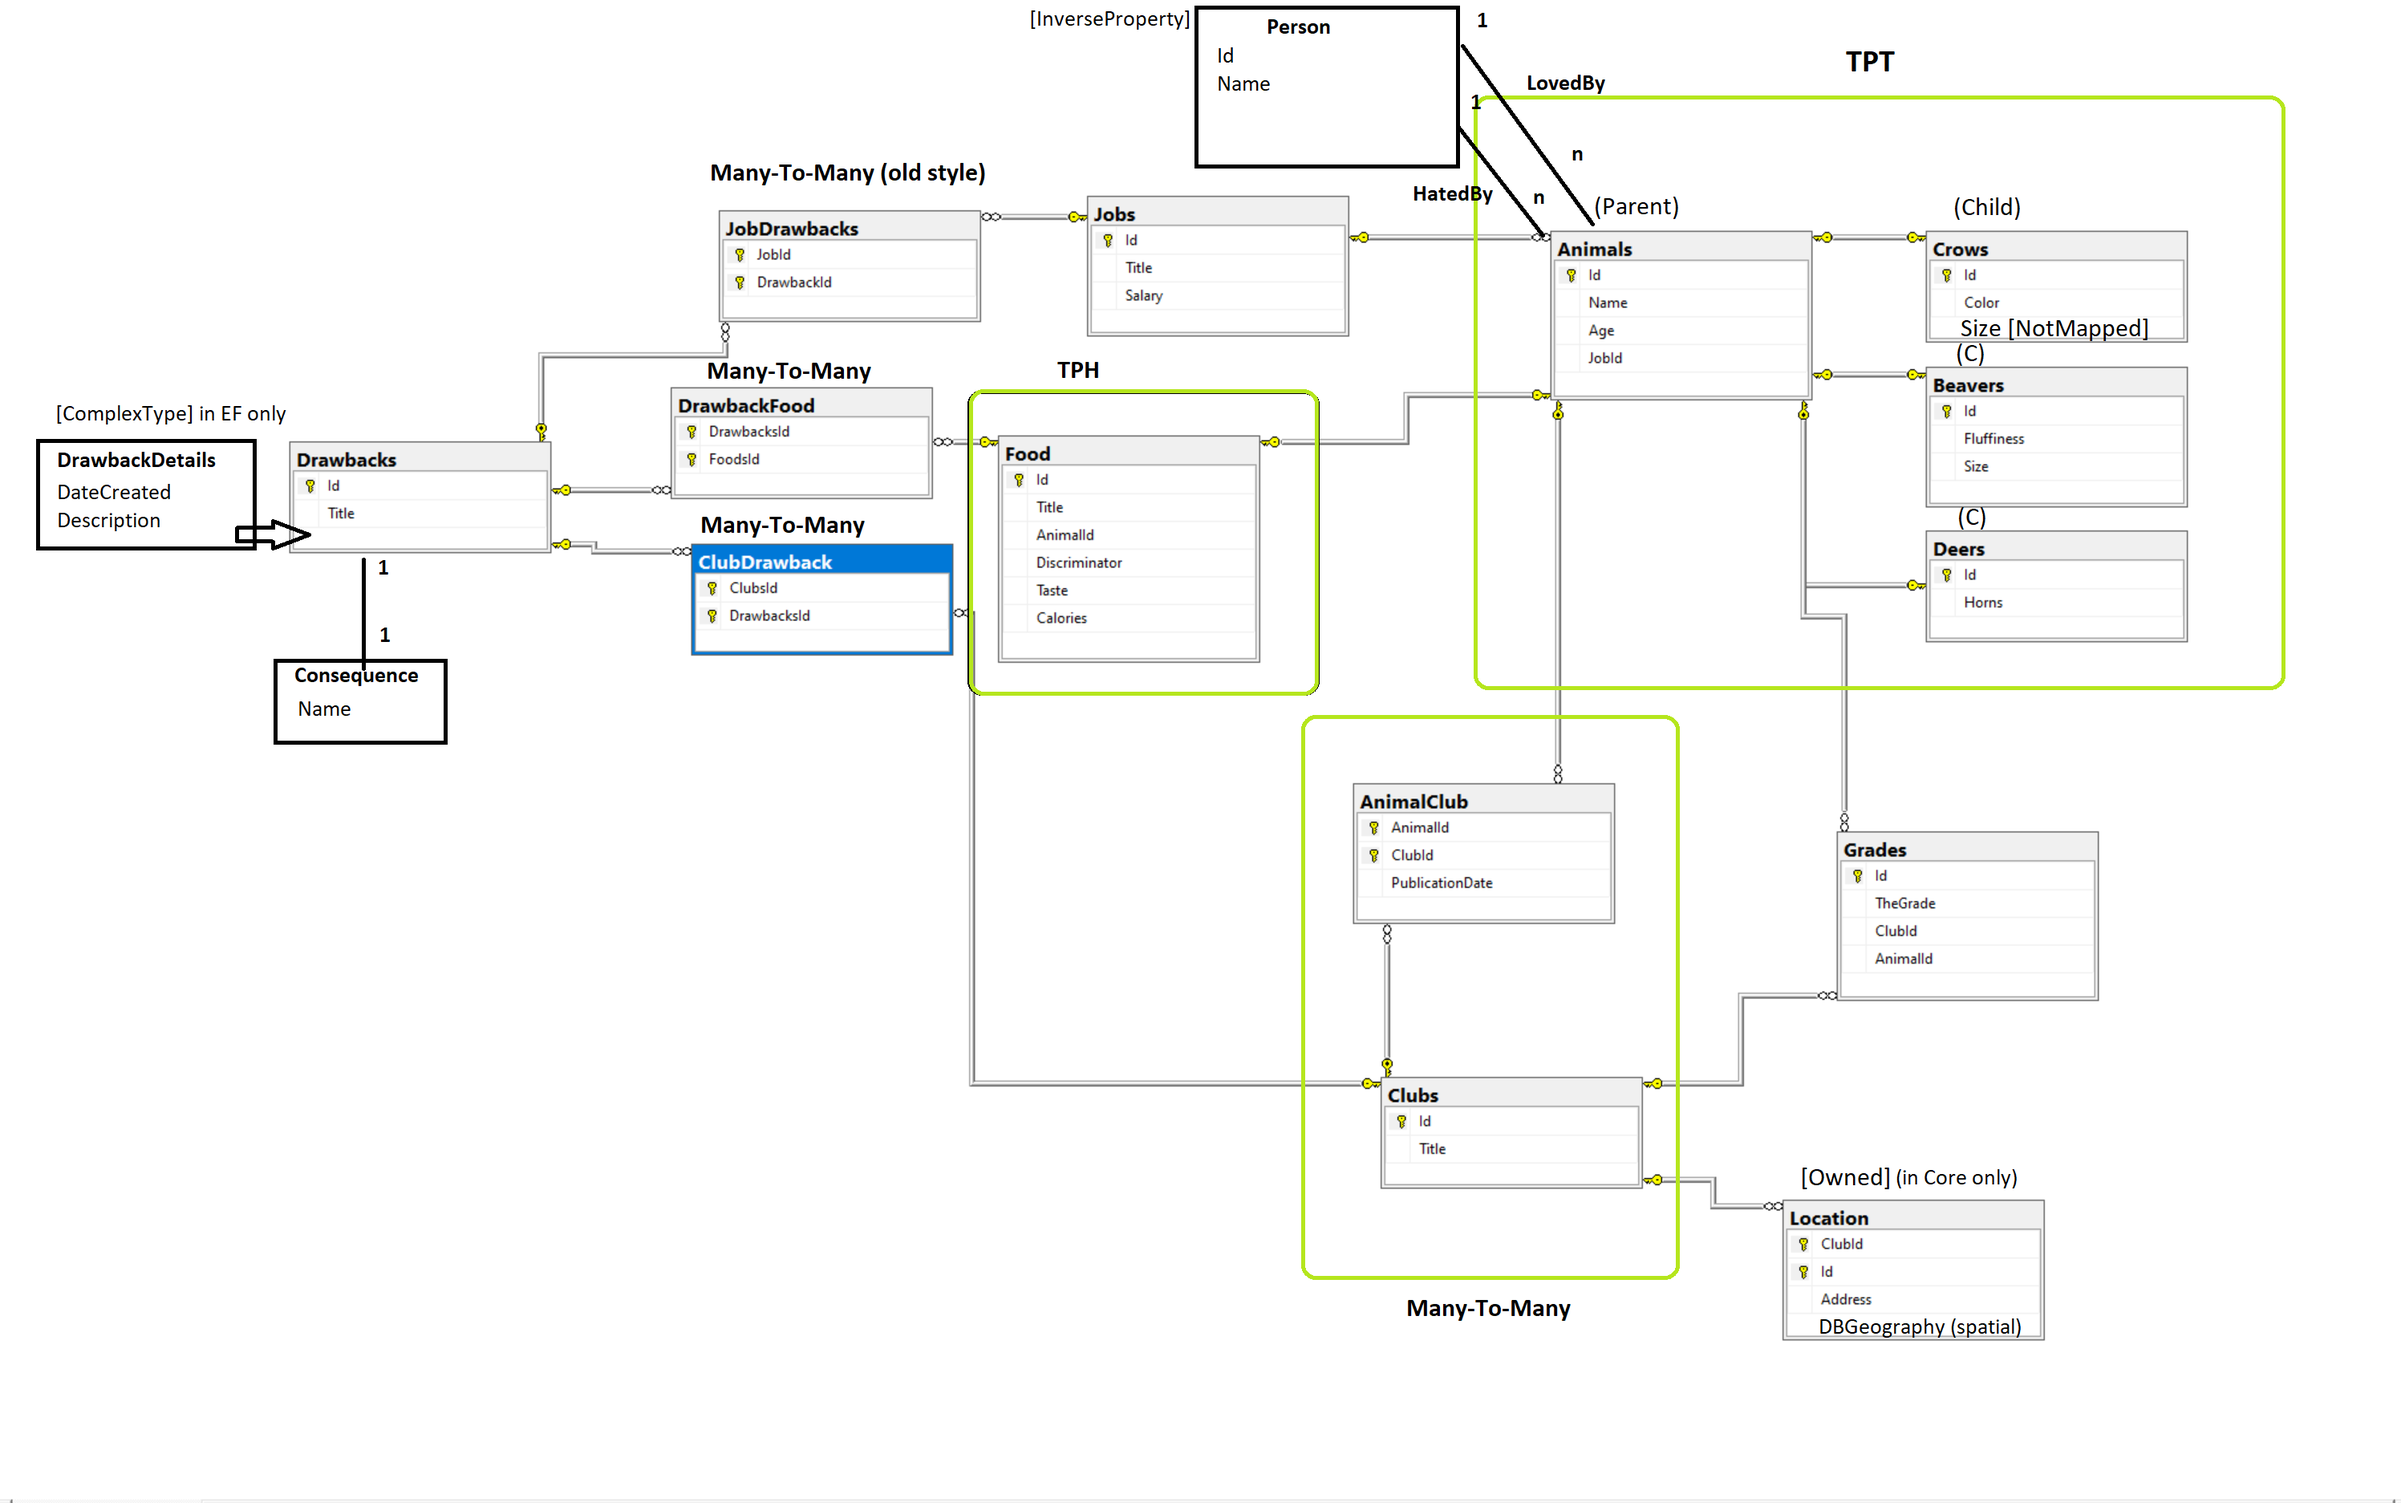
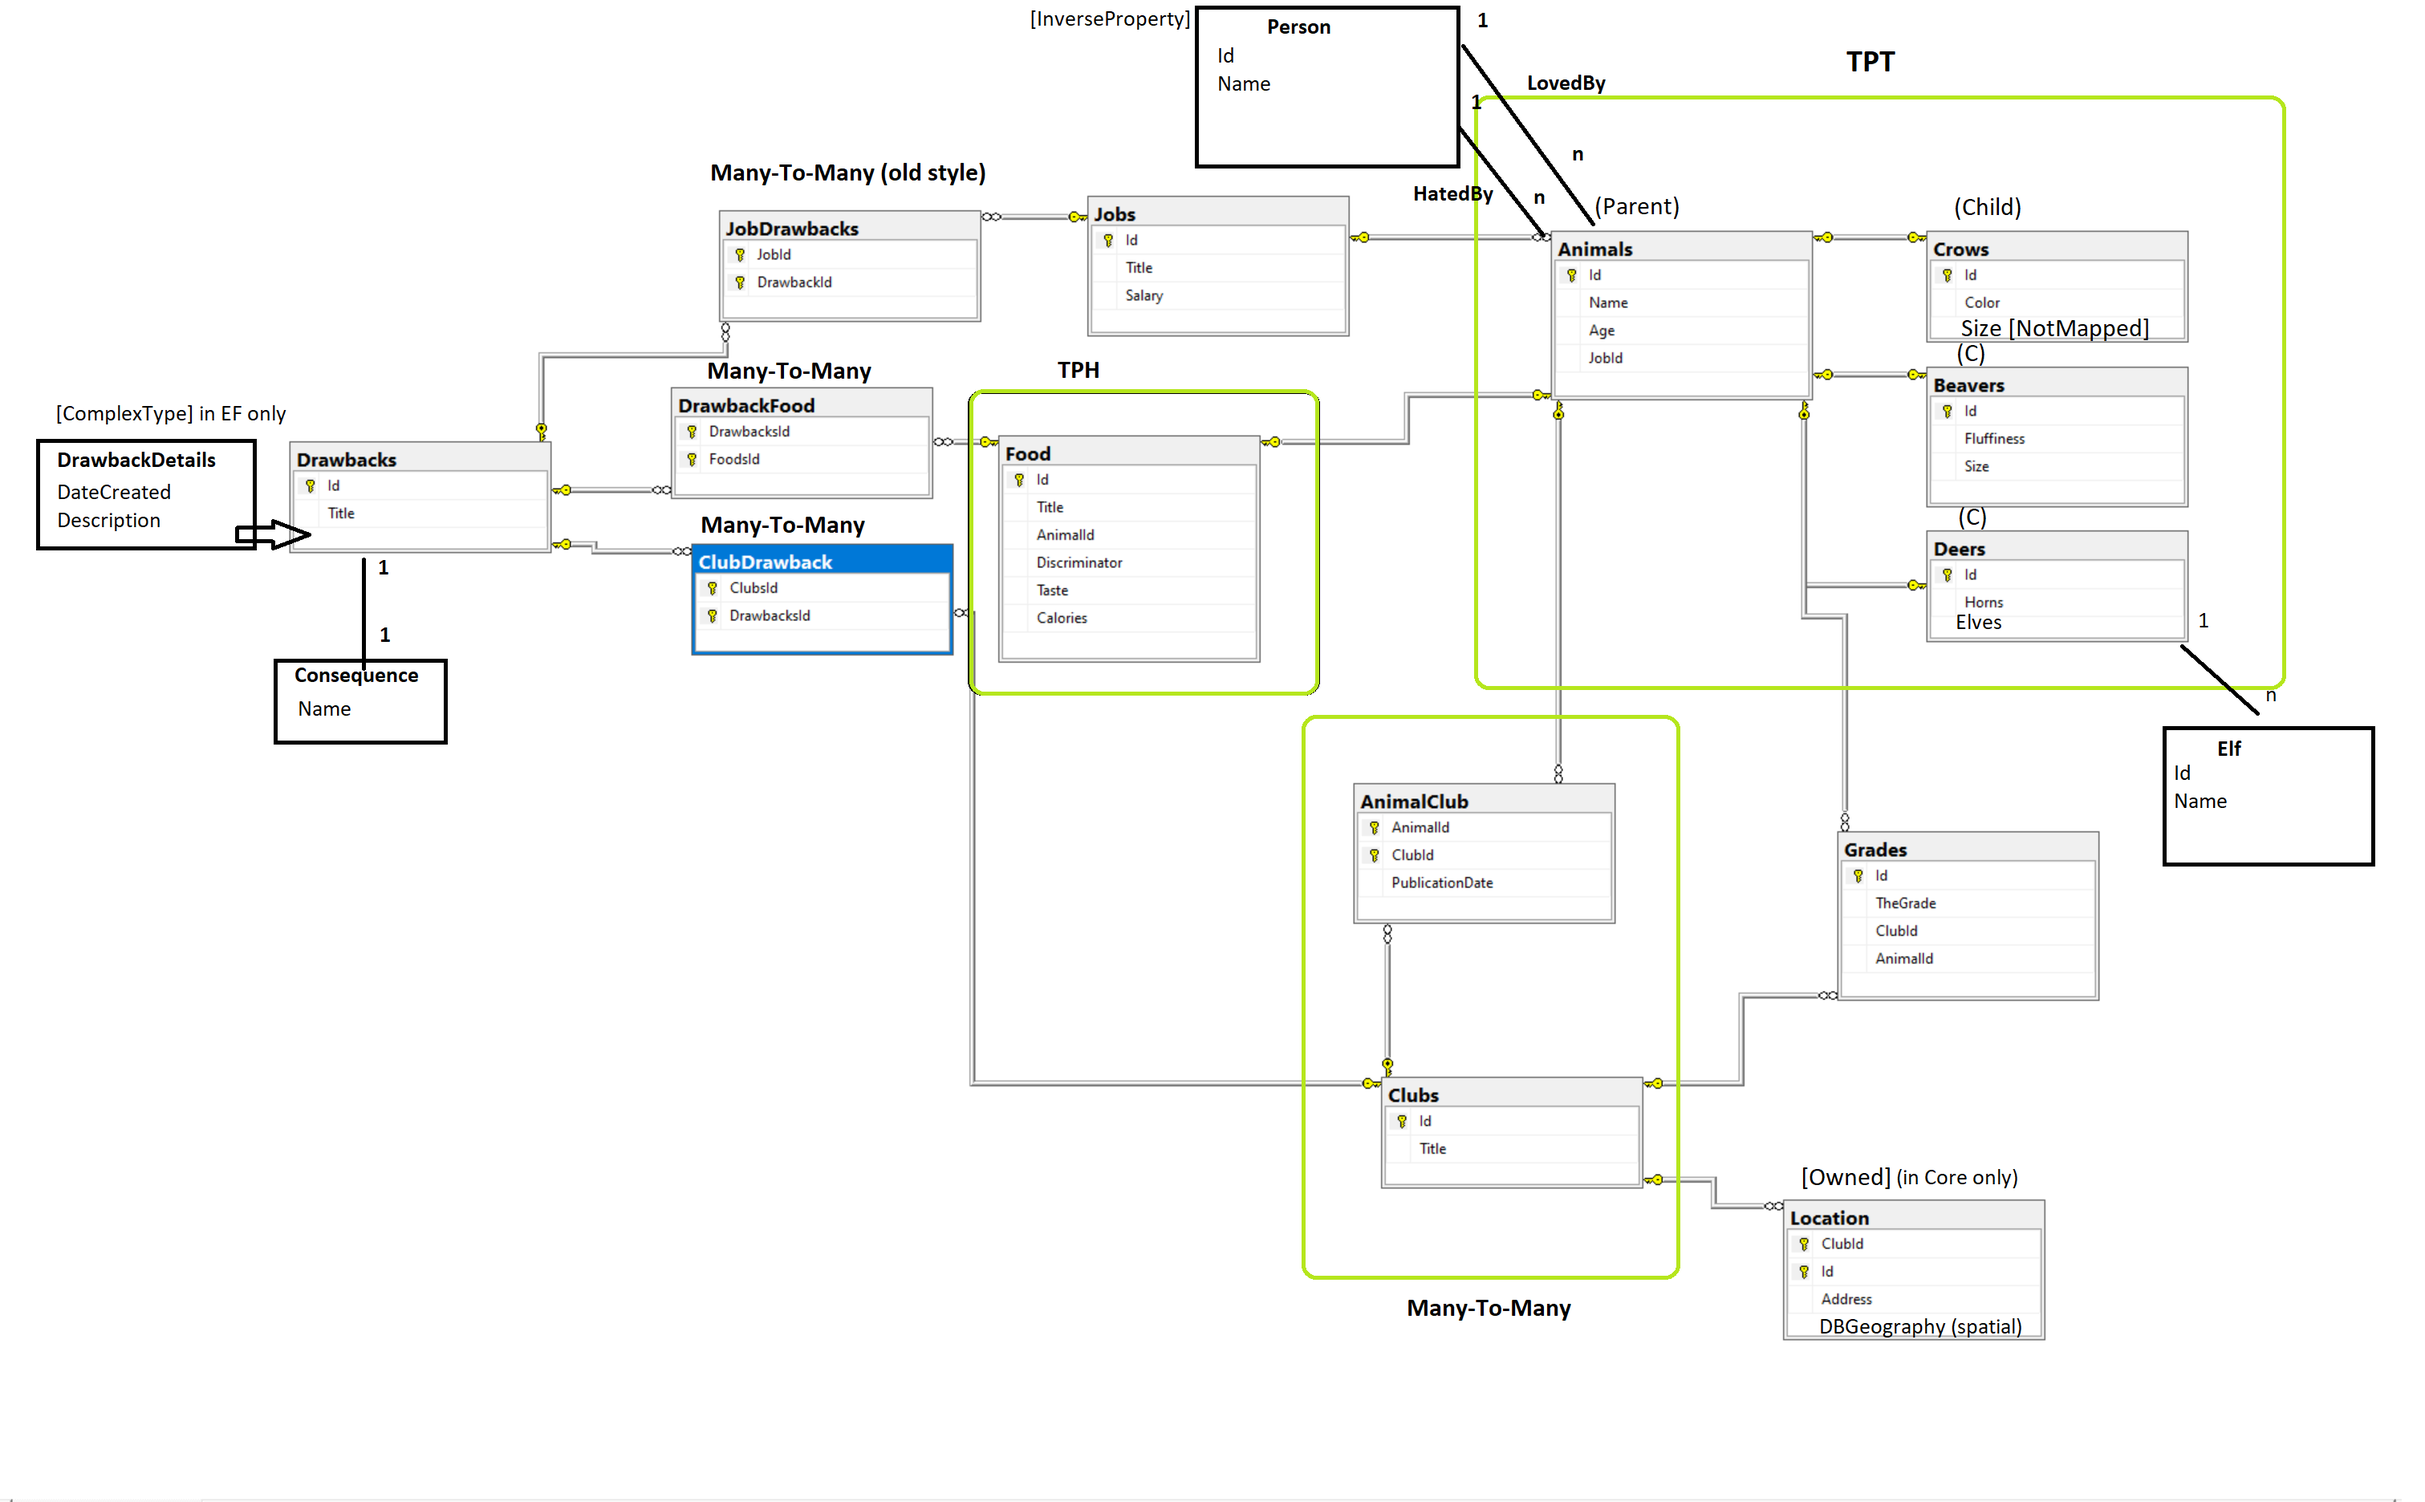
EF Core: add queries.

diff --git a/EF_BeaversLife/Queries/Issues.cs b/EF_BeaversLife/Queries/Issues.cs
@@ -164,6 +164,150 @@ namespace EF_BeaversLife.Queries
 
             Console.ForegroundColor = ConsoleColor.White;
         }
+
+        /// <summary>
+        /// BUG: https://youtrack.jetbrains.com/issue/RSRP-481595
+        /// </summary>
+        public void RSRP_481595()
+        {
+            using var context = new AnimalContext();
+            var       food    = context.Food ?? null;
+            //var       food    = (context.Food ?? null)!;
+
+            Console.ForegroundColor = ConsoleColor.Magenta;
+            foreach (var food1 in food)
+            {
+                Console.WriteLine(food1);
+                List<Drawback> drawbacks = (food1.Drawbacks?.ToList() ?? null)!;
+
+                if (drawbacks != null)
+                {
+                    foreach (var drawback in drawbacks)
+                    {
+                        if (drawback.Clubs != null)
+                        {
+                            foreach (var club in drawback.Clubs)
+                            {
+                                Console.Write("\t");
+                                Console.WriteLine(club);
+                            }
+                        }
+                    }
+                }
+            }
+
+            Console.ForegroundColor = ConsoleColor.White;
+        }
+
+        /// <summary>
+        /// BUG: https://youtrack.jetbrains.com/issue/RSRP-481554
+        /// </summary>
+        public void RSRP_481554()
+        {
+            using var context     = new AnimalContext();
+            using var transaction = context.Database.BeginTransaction();
+
+            Console.ForegroundColor = ConsoleColor.Magenta;
+
+            foreach (var normalFood in context.NormalFood)
+            {
+                Console.WriteLine(normalFood);
+                if (normalFood.Drawbacks != null)
+                {
+                    foreach (var drawback in normalFood.Drawbacks)
+                    {
+                        Console.Write("\t");
+                        Console.WriteLine(drawback);
+                    }
+                }
+            }
+
+            Console.ForegroundColor = ConsoleColor.White;
+            transaction.Commit();
+        }
+
+        /// <summary>
+        /// BUG: https://youtrack.jetbrains.com/issue/RSRP-481577
+        /// </summary>
+        public void RSRP_481577()
+        {
+            using var context = new AnimalContext();
+            var beavers = context.Beavers.Include(beaver =>
+                beaver.Grades.Where(grade => grade.TheGrade >= 4.0).OrderByDescending(grade => grade.TheGrade).Take(1));
+
+            Console.ForegroundColor = ConsoleColor.Magenta;
+            foreach (var beaver in beavers)
+            {
+                Console.WriteLine(beaver);
+                if (beaver.Grades != null)
+                {
+                    foreach (var grade in beaver.Grades)
+                    {
+                        Console.Write("\t");
+                        Console.WriteLine(grade);
+                    }
+                }
+            }
+
+            Console.ForegroundColor = ConsoleColor.White;
+        }
+
+        /// <summary>
+        /// BUG: https://youtrack.jetbrains.com/issue/RSRP-481581
+        /// </summary>
+        public void RSRP_481581()
+        {
+            using var          context    = new AnimalContext();
+            IQueryable<Animal> animals    = context.Deers.AsQueryable();
+            var                newAnimals = animals;
+
+            Console.ForegroundColor = ConsoleColor.Magenta;
+            foreach (var animal in newAnimals)
+            {
+                Console.WriteLine(animal);
+                if (animal.Grades != null)
+                {
+                    foreach (var grade in (animal).Grades)
+                    {
+                        Console.Write("\t");
+                        Console.WriteLine(grade);
+                    }
+                }
+            }
+
+            Console.ForegroundColor = ConsoleColor.White;
+        }
+
+        /// <summary>
+        /// BUG: https://youtrack.jetbrains.com/issue/RSRP-481581
+        /// Include is needed.
+        /// </summary>
+        public void RSRP_481581_2()
+        {
+            using var          context    = new AnimalContext();
+            IQueryable<Animal> animals = context.Deers.AsQueryable()
+                //.Include(d => d.Elves)
+                ;
+            var                newAnimals = animals;
+
+            Console.ForegroundColor = ConsoleColor.Magenta;
+            foreach (var animal in newAnimals)
+            {
+                Console.WriteLine(animal);
+
+                var elves = ((Deer) animal).Elves;
+                if (elves != null)
+                {
+                    foreach (var elf in elves)
+                    {
+                        Console.Write("\t");
+                        Console.WriteLine(elf);
+                    }
+                }
+            }
+
+            Console.ForegroundColor = ConsoleColor.White;
+        }
     }
 
     public static class Ext

diff --git a/EF_BeaversLife/Program.cs b/EF_BeaversLife/Program.cs
@@ -68,7 +68,9 @@ namespace EF_BeaversLife
             //new UseEnumeration().DbCallDueToToList3();
 
             //new UseRawSql().UseRawSql1();
-            new UseInclude().UseIncludeMultilevel();
+            //new UseInclude().UseIncludeMultilevel();
+
+            new Issues().RSRP_481581_2();
         }
 
         private static async Task ExecuteQueriesAsync()
@@ -848,6 +850,66 @@ namespace EF_BeaversLife
             };
 
             context.Persons.Add(person1);
+
+            #endregion
+
+            #region Seed Elves
+
+            var elf1 = new Elf
+            {
+                Name = "Alabaster Snowball",
+                Deer = deer1
+            };
+            var elf2 = new Elf
+            {
+                Name = "Bushy Evergreen",
+                Deer = deer1
+            };
+            var elf3 = new Elf
+            {
+                Name = "Pepper Minstix",
+                Deer = deer2
+            };
+            var elf4 = new Elf
+            {
+                Name = "Shinny Upatree",
+                Deer = deer3
+            };
+            var elf5 = new Elf
+            {
+                Name = "Sugarplum Mary",
+                Deer = deer4
+            };
+            var elf6 = new Elf
+            {
+                Name = "Wunorse Openslae",
+                Deer = deer5
+            };
+            var elf7 = new Elf
+            {
+                Name = "Grinch",
+                Deer = deer6
+            };
+            var elf8 = new Elf
+            {
+                Name = "Legolas",
+                Deer = deer7
+            };
+            var elf9 = new Elf
+            {
+                Name = "Iorveth",
+                Deer = deer8
+            };
+
+            context.Elves.Add(elf1);
+            context.Elves.Add(elf2);
+            context.Elves.Add(elf3);
+            context.Elves.Add(elf4);
+            context.Elves.Add(elf5);
+            context.Elves.Add(elf6);
+            context.Elves.Add(elf7);
+            context.Elves.Add(elf8);
+            context.Elves.Add(elf9);
 
             #endregion
 

diff --git a/EF_BeaversLife/Queries/UseProjection.cs b/EF_BeaversLife/Queries/UseProjection.cs
@@ -1,0 +1,52 @@
+using System;
+using System.Linq;
+using CoreLib_Common;
+using Microsoft.EntityFrameworkCore;
+
+namespace EF_BeaversLife.Queries
+{
+    public class UseProjection
+    {
+        /// <summary>
+        /// Include is NOT needed.
+        /// </summary>
+        public void UseProjection1()
+        {
+            using var context = new AnimalContext();
+            var animals = context.Animals.AsNoTracking()
+                                 .OrderByDescending(a => a.Age)
+                                 .Select(a => new
+                                 {
+                                     a.Name,
+                                     Clubs = a.Clubs.Select(c => new
+                                     {
+                                         c.Title,
+                                         Grades = c.Grades.Select(g => new
+                                         {
+                                             g.TheGrade
+                                         })
+                                     })
+                                 });
+
+            Console.ForegroundColor = ConsoleColor.Magenta;
+            foreach (var animal in animals)
+            {
+                Console.WriteLine(animal.Name);
+                foreach (var club in animal.Clubs)
+                {
+                    Console.Write("\t");
+                    Console.WriteLine(club.Title);
+
+                    foreach (var grade in club.Grades)
+                    {
+                        Console.Write("\t");
+                        Console.Write("\t");
+                        Console.WriteLine(grade);
+                    }
+                }
+            }
+
+            Console.ForegroundColor = ConsoleColor.White;
+        }
+    }
+}

diff --git a/EF_BeaversLife/Queries/InheritanceTest.cs b/EF_BeaversLife/Queries/InheritanceTest.cs
@@ -1,0 +1,38 @@
+using System;
+using CoreLib_Common;
+using CoreLib_Common.Model;
+
+namespace EF_BeaversLife.Queries
+{
+    public class InheritanceTest
+    {
+        /// <summary>
+        /// Cast to derived type.
+        /// Include is needed.
+        /// </summary>
+        public void RSRP_481554_1()
+        {
+            using var context     = new AnimalContext();
+            using var transaction = context.Database.BeginTransaction();
+
+            Console.ForegroundColor = ConsoleColor.Magenta;
+
+            foreach (var food in context.Food)
+            {
+                var normalFood = (NormalFood) food;
+                Console.WriteLine(normalFood);
+                if (normalFood.Drawbacks != null)
+                {
+                    foreach (var drawback in normalFood.Drawbacks)
+                    {
+                        Console.Write("\t");
+                        Console.WriteLine(drawback);
+                    }
+                }
+            }
+
+            Console.ForegroundColor = ConsoleColor.White;
+            transaction.Commit();
+        }
+    }
+}

diff --git a/CoreLib_Common/Model/Elf.cs b/CoreLib_Common/Model/Elf.cs
@@ -1,0 +1,21 @@
+using System;
+using System.ComponentModel.DataAnnotations.Schema;
+using System.Linq;
+
+namespace CoreLib_Common.Model
+{
+    public class Elf
+    {
+        [DatabaseGenerated(DatabaseGeneratedOption.Identity)]
+        public int Id { get; set; }
+
+        public string Name { get; set; } = null!;
+
+        public virtual Deer? Deer { get; set; }
+
+        public override string ToString()
+        {
+            return $"Elf : Id = {Id} Name = {Name}";
+        }
+    }
+}

diff --git a/CoreLib_Common/AnimalContext.cs b/CoreLib_Common/AnimalContext.cs
@@ -24,6 +24,7 @@ namespace CoreLib_Common
         public DbSet<Food>        Food         { get; set; } = null!;
         public DbSet<NormalFood>  NormalFood   { get; set; } = null!;
         public DbSet<VeganFood>   VeganFood    { get; set; } = null!;
+        public DbSet<Elf>         Elves        { get; set; } = null!;
 
         public DbSet<MapToQuery> MapToQuery { get; set; } = null!;
 

diff --git a/CoreLib_Common/Model/Deer.cs b/CoreLib_Common/Model/Deer.cs
@@ -1,9 +1,14 @@
-namespace CoreLib_Common.Model
+using System.Collections.Generic;
+using System.ComponentModel.DataAnnotations;
+
+namespace CoreLib_Common.Model
 {
     //[Table("Deer")]
     public class Deer : Animal
     {
         public bool Horns { get; set; }
+
+        public virtual ICollection<Elf>? Elves { get; set; }
 
         public override string ToString()
         {

diff --git a/CoreLib_Common/Model/Food.cs b/CoreLib_Common/Model/Food.cs
@@ -6,7 +6,7 @@ using System.Linq;
 
 namespace CoreLib_Common.Model
 {
-    public class Food
+    public abstract class Food
     {
         [Key]
         [DatabaseGenerated(DatabaseGeneratedOption.Identity)]
